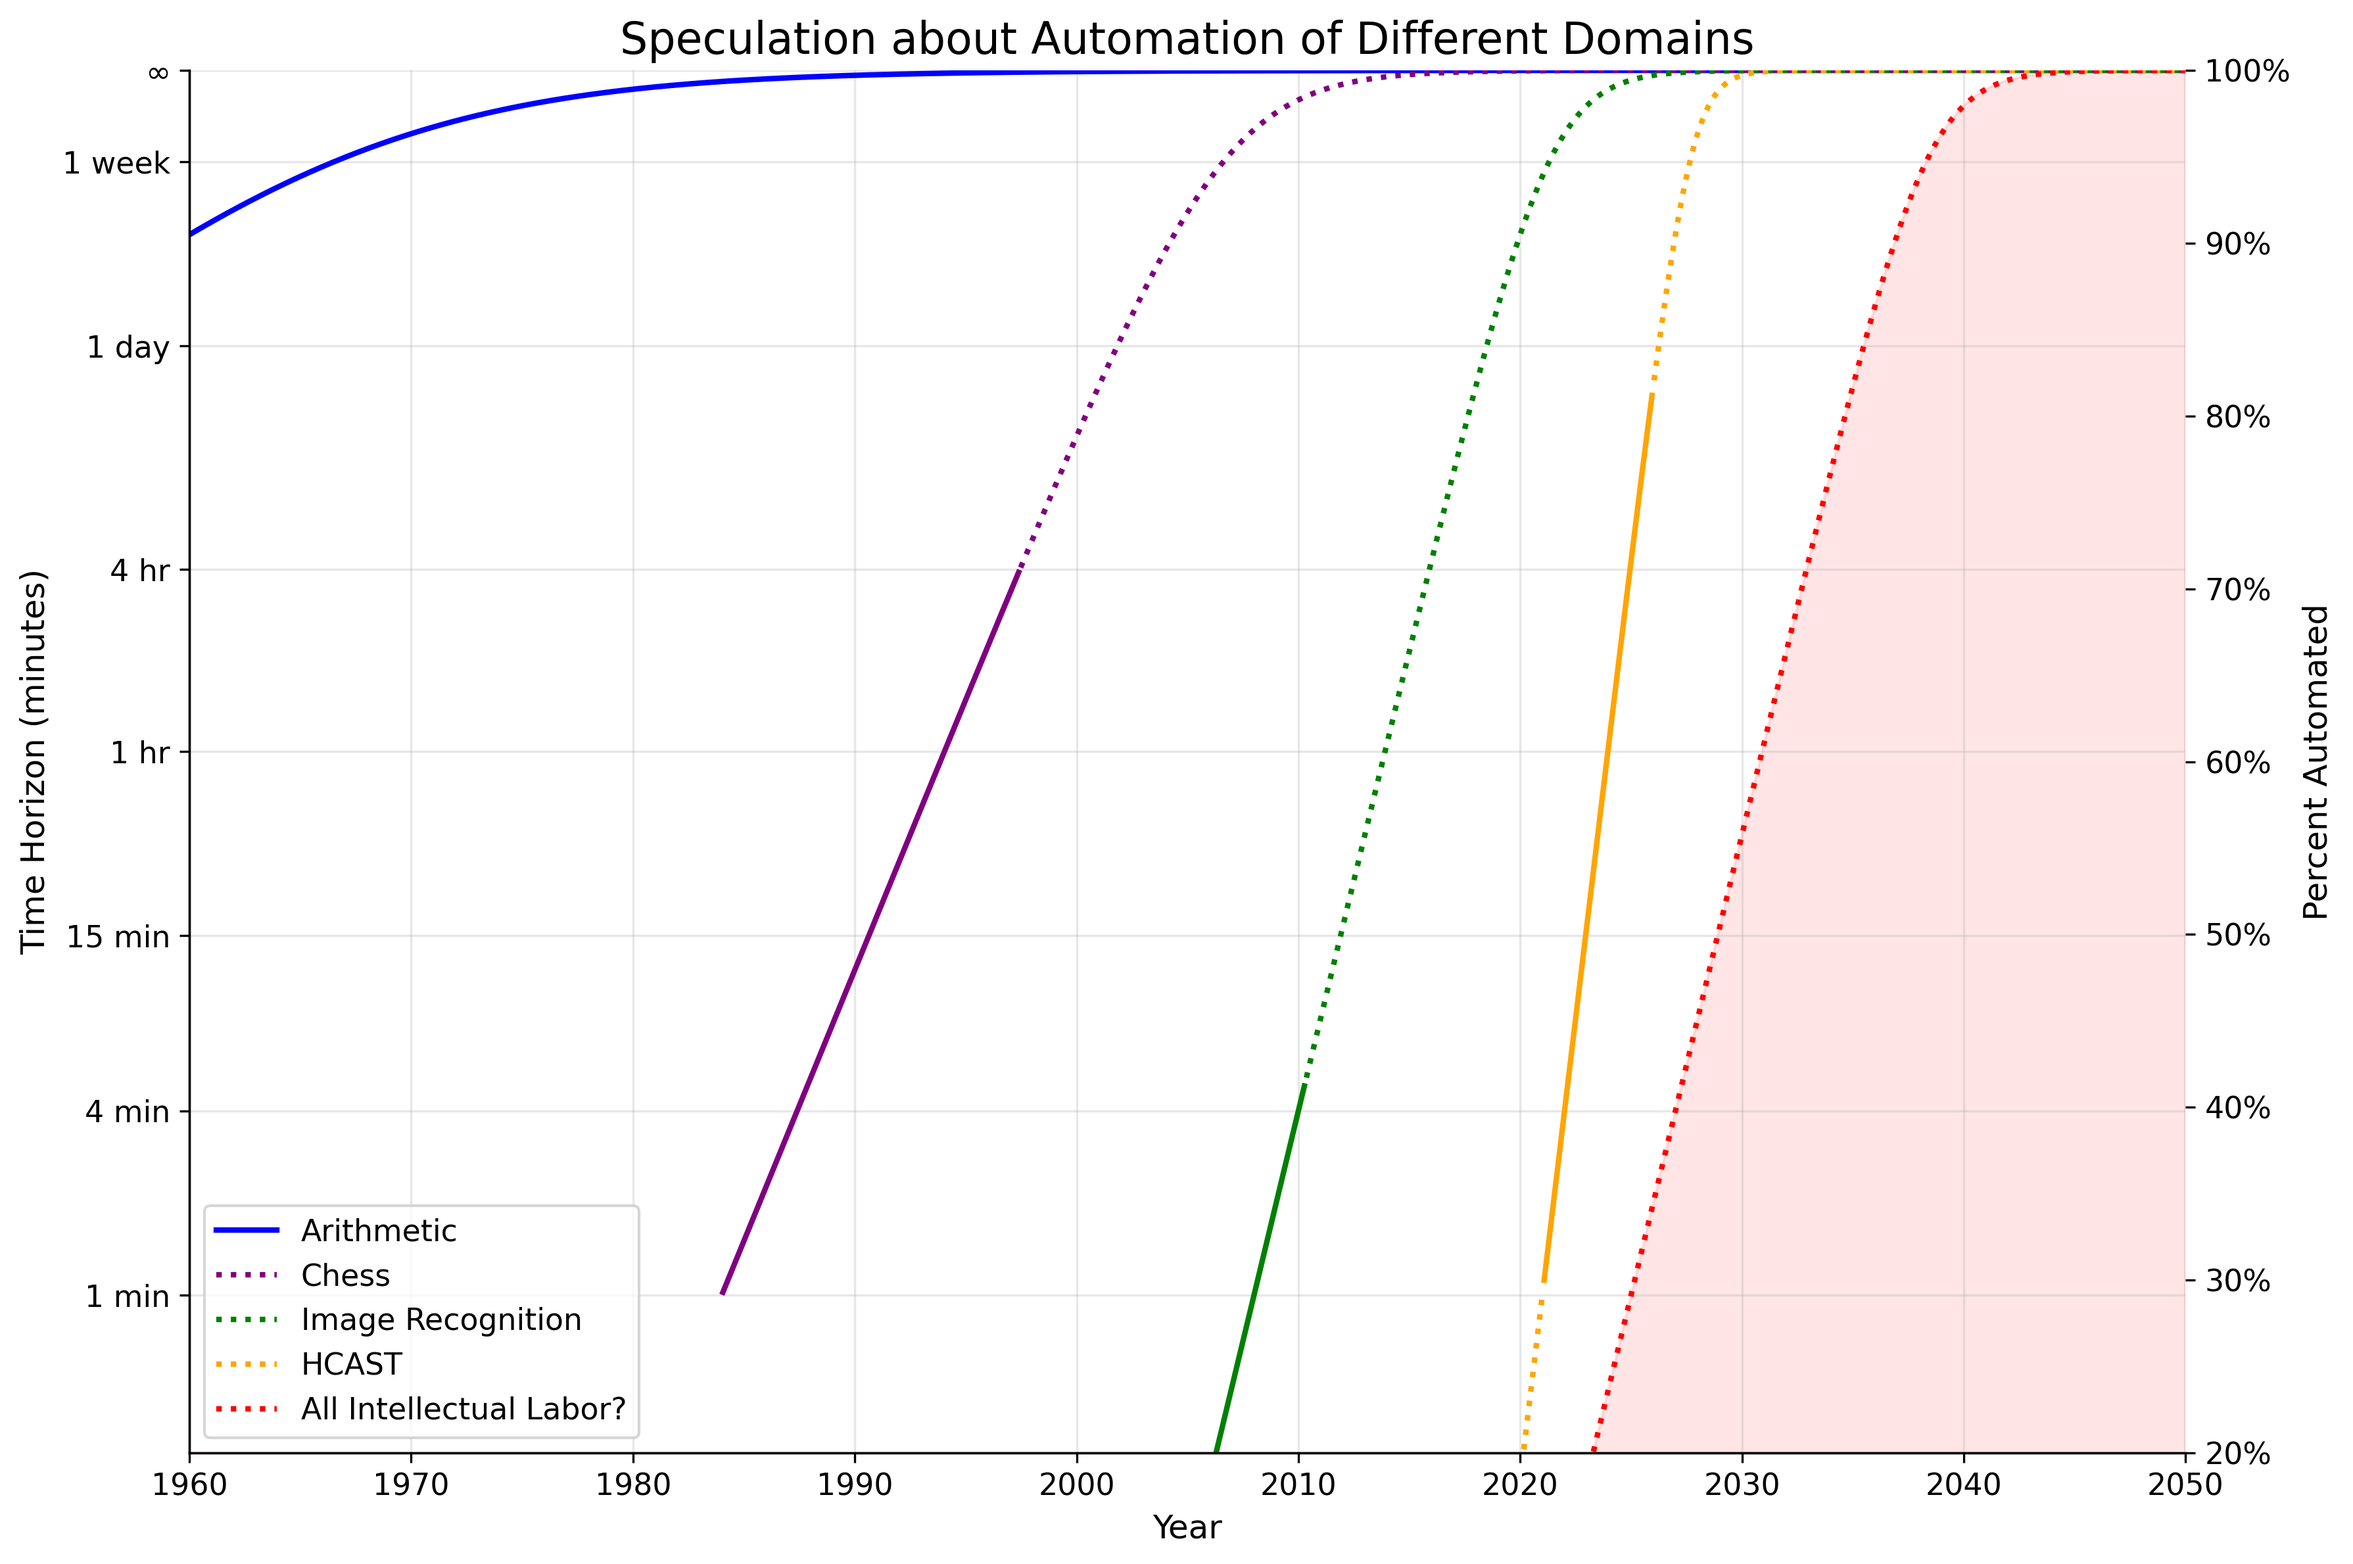
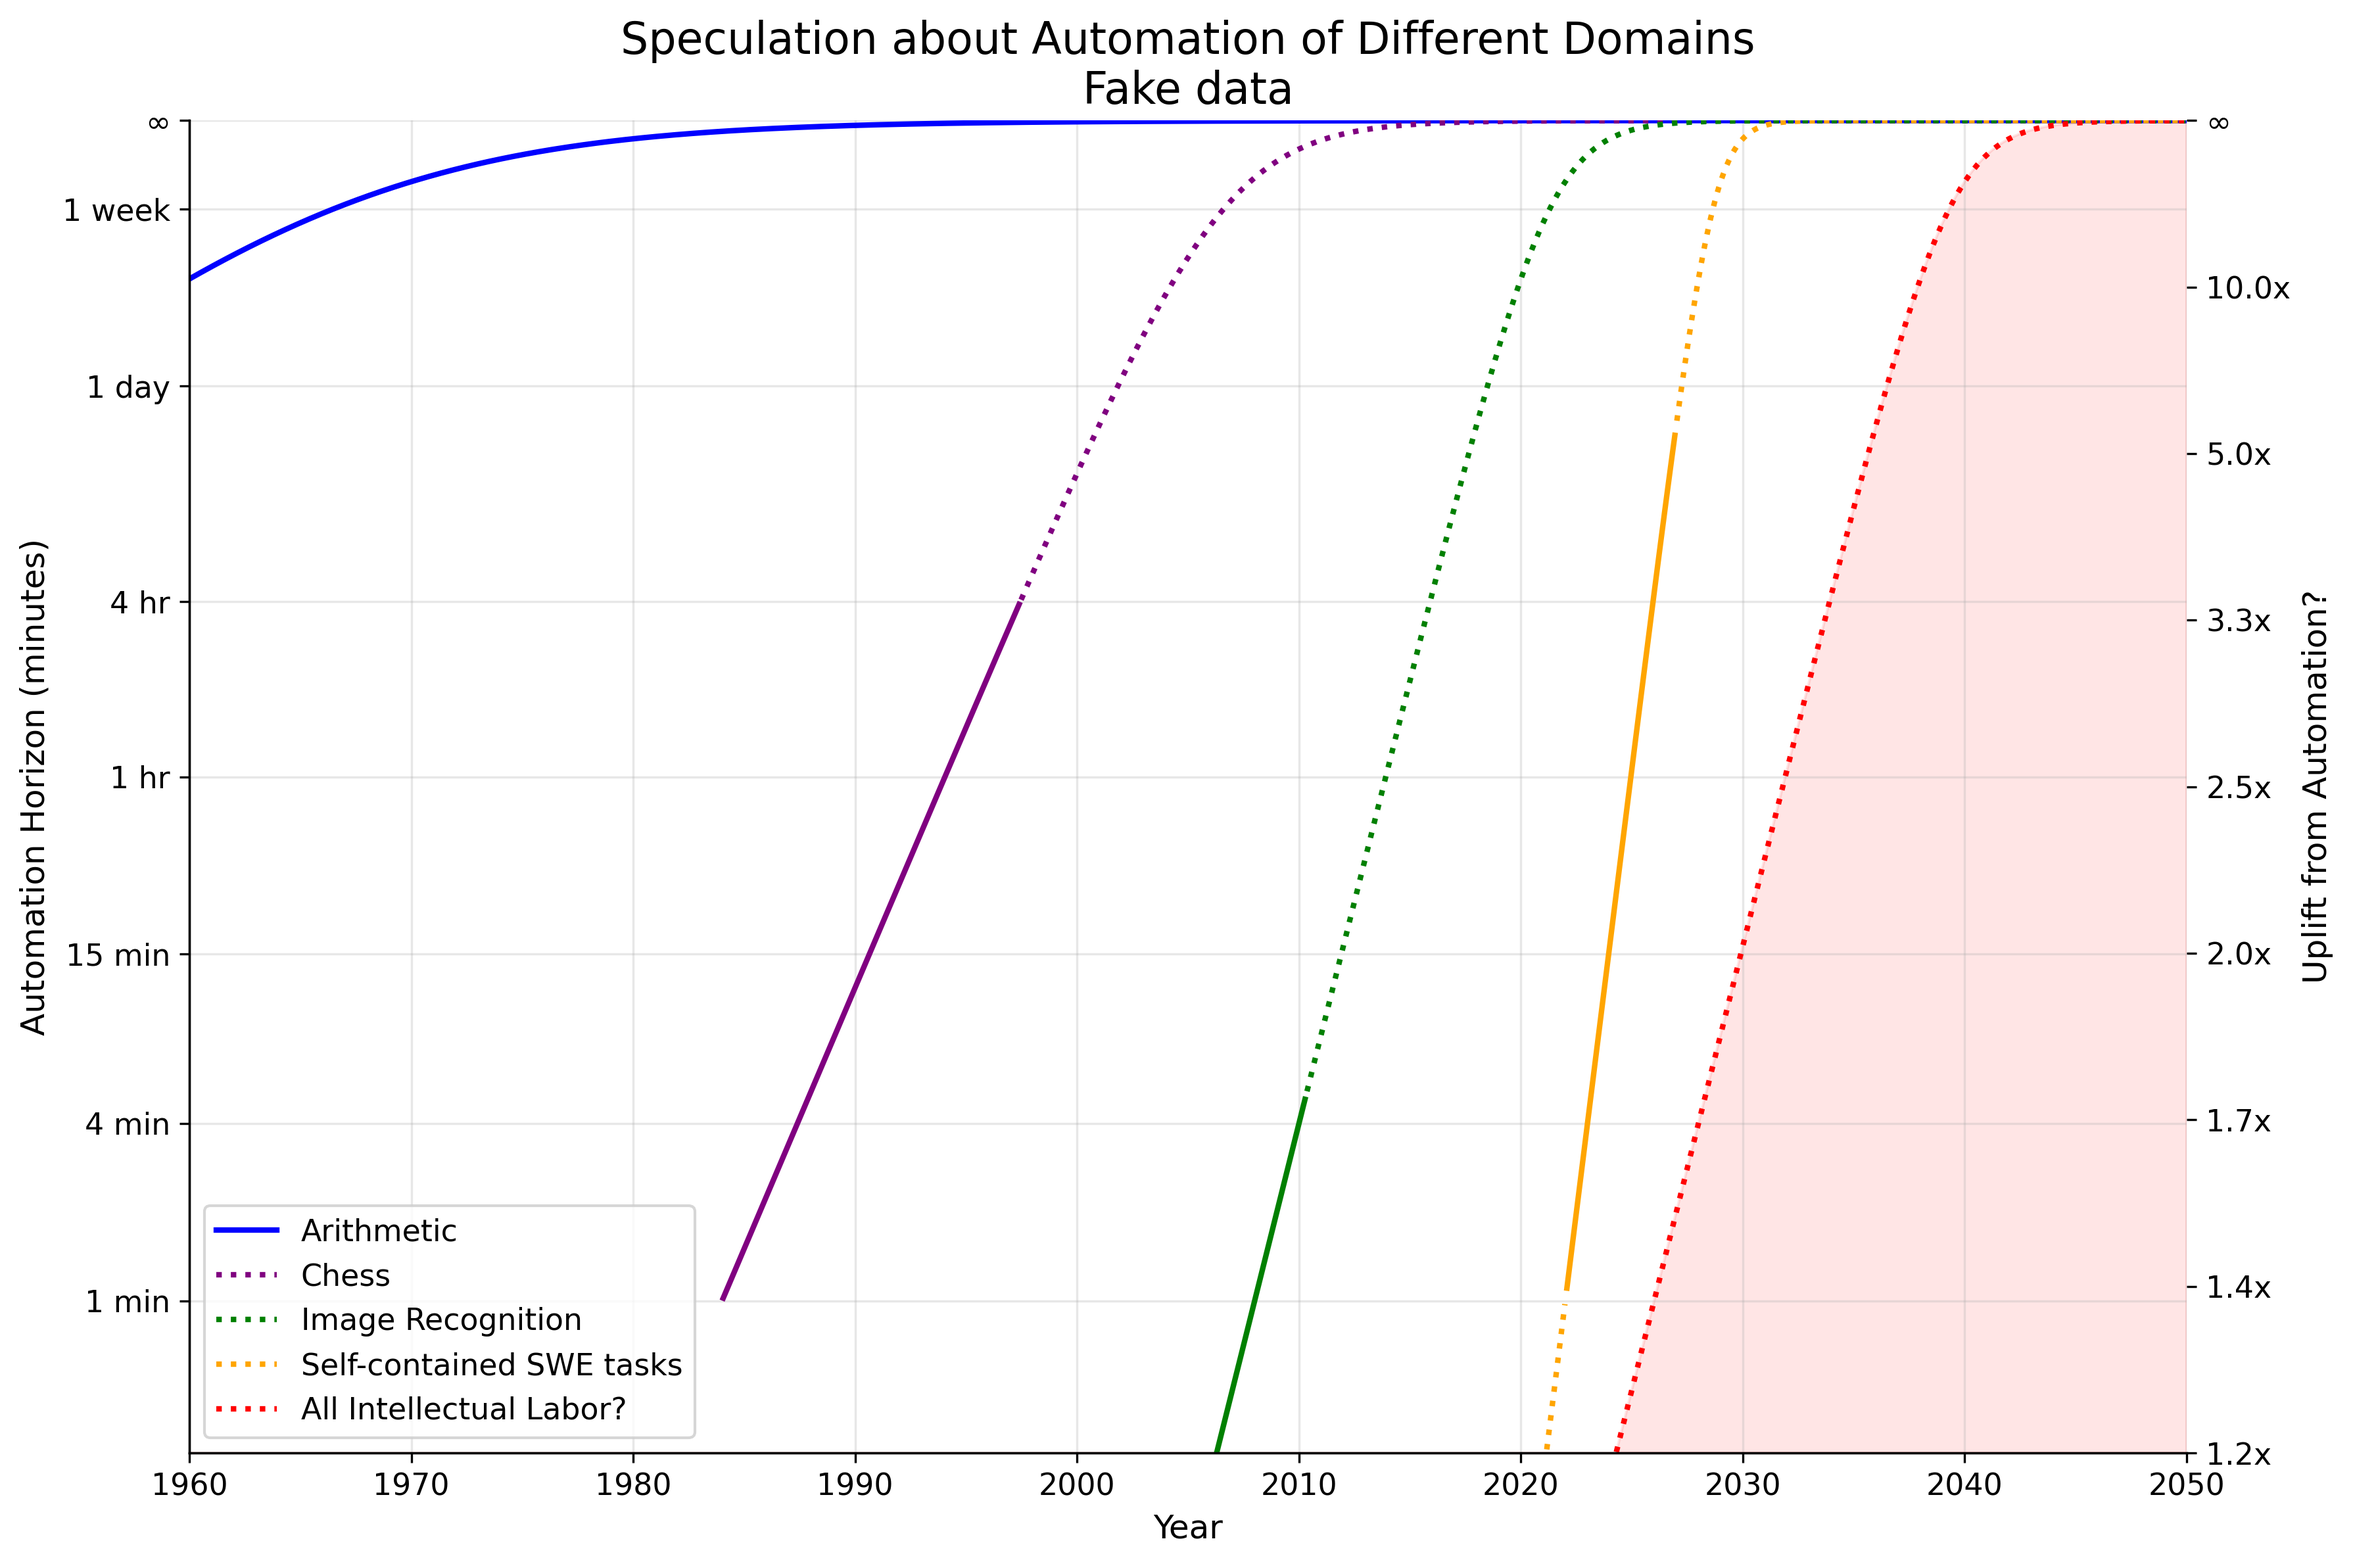
speculation plot improvements

diff --git a/plot_speculation.py b/plot_speculation.py
@@ -73,8 +73,8 @@ def plot_speculation(df: pd.DataFrame, output_file: pathlib.Path):
         LineSpec("Chess", lambda x: 2**((1/1.7)*(x - 1984)), 'purple', y_start=1, y_end=np.inf,
         dotted_start=0, dotted_end=4*60),
         LineSpec("Image Recognition", lambda x: 2**(x - 2008), 'green', y_start=0, y_end=np.inf, dotted_start=1/60, dotted_end=5),
-        LineSpec("HCAST", lambda x: 2**(2*(x - 2021)), 'orange', y_start=0, y_end=np.inf, dotted_start=1, dotted_end=960),
-        LineSpec("All Intellectual Labor?", lambda x: 2**(x - 2025), 'red', y_start=0, y_end=np.inf, dotted_start=np.inf, dotted_end=np.inf)
+        LineSpec("Self-contained SWE tasks", lambda x: 2**(2*(x - 2022)), 'orange', y_start=0, y_end=np.inf, dotted_start=1, dotted_end=960),
+        LineSpec("All Intellectual Labor?", lambda x: 2**(x - 2026), 'red', y_start=0, y_end=np.inf, dotted_start=np.inf, dotted_end=np.inf)
     ]
 
     points = [
@@ -134,8 +134,8 @@ def plot_speculation(df: pd.DataFrame, output_file: pathlib.Path):
     
     # Set up the plot
     plt.xlabel('Year')
-    plt.ylabel('Time Horizon (minutes)')
-    plt.title('Speculation about Automation of Different Domains')
+    plt.ylabel('Automation Horizon (minutes)')
+    plt.title('Speculation about Automation of Different Domains\nFake data')
     plt.xlim(X_START, X_END)
     
     # Set up y-axis ticks with time units
@@ -181,10 +181,11 @@ def plot_speculation(df: pd.DataFrame, output_file: pathlib.Path):
     # Create evenly spaced percent ticks on the right axis
     percent_values = [20, 30, 40, 50, 60, 70, 80, 90, 100]
     percent_positions = [y_min + (p - 20) / 80 * (y_max - y_min) for p in percent_values]
+    uplift_values = [1 / (1 - p / 100) if p < 100 else np.inf for p in percent_values]
     
     ax2.set_yticks(percent_positions)
-    ax2.set_yticklabels([f'{p}%' for p in percent_values])
-    ax2.set_ylabel('Percent Automated')
+    ax2.set_yticklabels([f'{p:.1f}x' if p < np.inf else '∞' for p in uplift_values])
+    ax2.set_ylabel('Uplift from Automation?')
     ax2.grid(False)  # Disable grid lines for right axis
     
     # Add grid and legend
